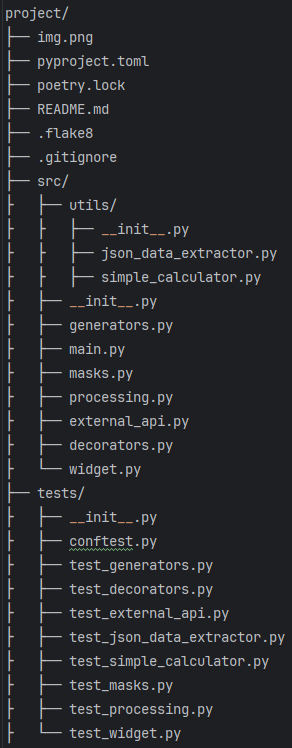
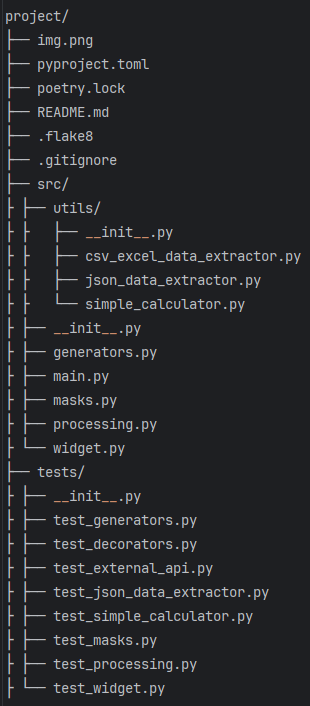
исправления mypy + обновление readme.md

Changed region(s): [[0.0, 0.0, 0.9863, 0.9972], [0.9247, 0.8414, 0.9863, 0.8725], [0.6781, 0.9348, 0.7397, 0.966]]

diff --git a/src/utils/csv_excel_data_extractor.py b/src/utils/csv_excel_data_extractor.py
@@ -1,9 +1,8 @@
+import logging
 import os
 from pathlib import Path
-import logging
-from typing import List, Dict, Any, Optional
+from typing import Any, Dict, List, Optional, Hashable
 import pandas as pd
-
 
 BASE_DIR = Path(__file__).resolve().parent.parent.parent
 LOG_DIR = BASE_DIR / "logs"
@@ -24,8 +23,8 @@ if not logger.handlers:
     logger.addHandler(file_handler)
 
 
-def data_extractor(file_path: str, separator: str = ";",  sheet_name: str | int = 0) -> Optional[List[Dict[str, Any]]]:
-    """ Читает CSV или Excel файл с транзакциями и возвращает список словарей. """
+def data_extractor(file_path: str, separator: str = ";", sheet_name: str | int = 0) -> Optional[List[Dict[Hashable, Any]]]:
+    """Читает CSV или Excel файл с транзакциями и возвращает список словарей."""
 
     logger.info(f"Начало чтения файла: {file_path}")
 
@@ -41,15 +40,15 @@ def data_extractor(file_path: str, separator: str = ";",  sheet_name: str | int 
     extension = extension.lower()
 
     try:
-        if extension == '.csv':
+        if extension == ".csv":
             df = pd.read_csv(file_path, sep=separator)
-        elif extension in ('.xlsx', '.xls'):
+        elif extension in (".xlsx", ".xls"):
             df = pd.read_excel(file_path, sheet_name=sheet_name)
         else:
             logger.error(f"Неподдерживаемый формат файла: {extension}")
             return []
 
-        records = df.to_dict(orient='records')
+        records = df.to_dict(orient="records")
         logger.info(f"Успешно прочитано {len(records)} записей из файла {file_path}")
         return records
 

diff --git a/README.md b/README.md
@@ -13,27 +13,6 @@
 
 ## Установка с помощью Poetry:
 
-project/
-├── img.png
-├── pyproject.toml
-├── poetry.lock
-├── README.md
-├── .flake8
-├── .gitignore
-├── src/
-├ ├── __init__.py        
-├ ├── generators.py       
-├ ├── main.py           
-├ ├── masks.py           
-├ ├── processing.py     
-├ └── widget.py      
-├── tests/
-├ ├── __init__.py        
-├ ├── test_generators.py       
-├ ├── test_masks.py           
-├ ├── test_processing.py     
-├ └── test_widget.py
-
 1. Клонируйте репозиторий:
 
 ```
@@ -53,17 +32,22 @@ poetry shell
 ```
 
 # Структура проекта
-
 ![img.png](img.png)
 
 # Описание модулей
 # src\utils
-## json_data_extractor 
+
+## csv_excel_data_extractor.py
 
     Содержит:
-- функцию извлечения данных о транзакциях из json- файла transaction_data_extractor(file_path: str) -> List[Dict[str, Any]]:
+- функцию извлечения данных о транзакциях из csv, xls, xlsx- файлов data_extractor(file_path: str, separator: str = ";", sheet_name: str | int = 0) -> Optional[List[Dict[Hashable, Any]]]:  
 
-## simple_calculator
+## json_data_extractor.py 
+
+    Содержит:
+- функцию извлечения данных о транзакциях из json- файлов transaction_data_extractor(file_path: str) -> List[Dict[str, Any]]:
+
+## simple_calculator.py
 Содержит:
 - класс Calculator с функциями сложения, вычитания, умножения и деления целых чисел  
 # src/
